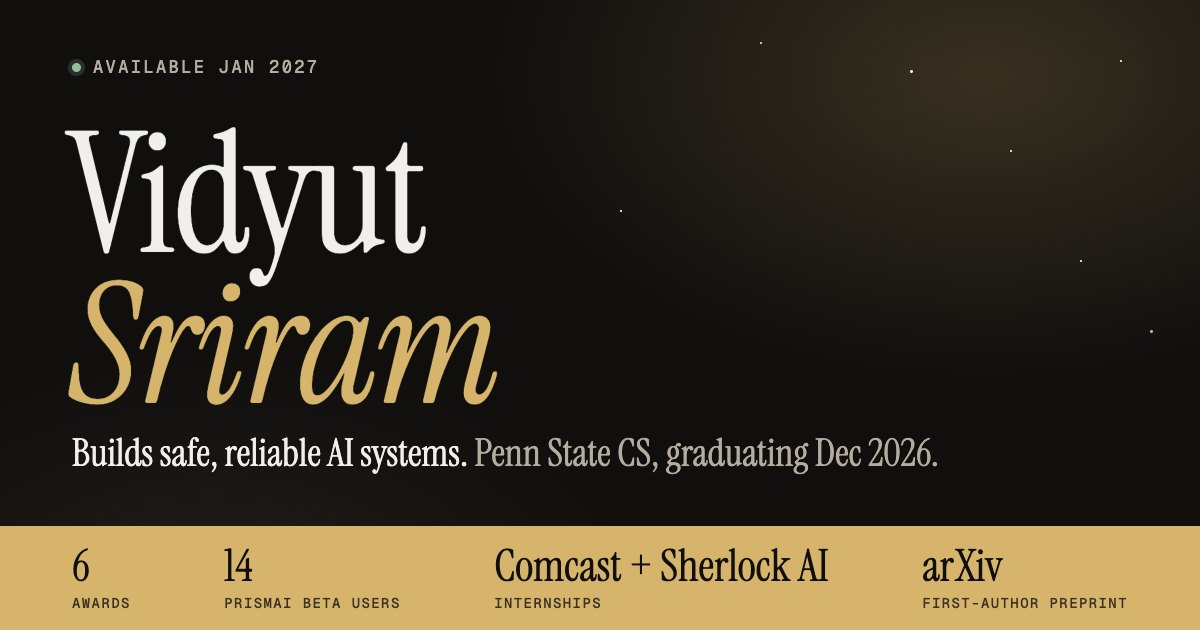
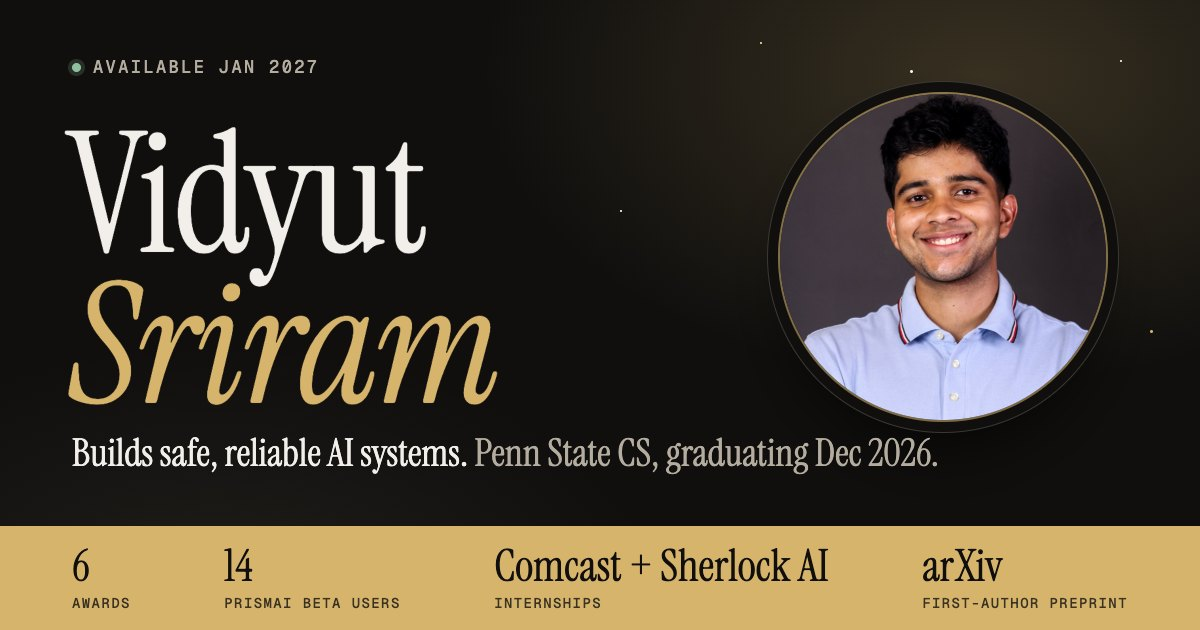
New studio headshot in the hero and on the OG card

Changed region(s): [[0.6475, 0.1206, 0.925, 0.6937], [0.8942, 0.2413, 0.925, 0.3016]]

diff --git a/src/styles/sections.css b/src/styles/sections.css
@@ -204,6 +204,32 @@
   align-items: center;
 }
 
+/* Studio headshot beside the availability line: a face before the claims. */
+.hero-who {
+  display: flex;
+  align-items: center;
+  gap: 18px;
+}
+
+.hero-portrait {
+  width: clamp(80px, 7vw, 104px);
+  height: clamp(80px, 7vw, 104px);
+  border-radius: 50%;
+  object-fit: cover;
+  border: 1px solid var(--acc-line);
+  box-shadow:
+    0 0 0 4px var(--ink),
+    0 0 0 5px var(--hair-2),
+    var(--glass-shadow);
+  flex: none;
+}
+
+.hero-where {
+  margin: 6px 0 0;
+  font-size: 14px;
+  color: var(--text-3);
+}
+
 .status {
   display: inline-flex;
   align-items: center;
@@ -1116,8 +1142,7 @@
 /* Heatmap: brass ramp, never GitHub green. */
 .heat {
   width: 100%;
-  flex: 1 1 118px; /* takes the height the Wins card adds; the graph sits centred in it */
-  min-height: 118px;
+  height: 118px;
   display: block;
 }
 
@@ -1160,6 +1185,7 @@
 }
 
 .pow-foot {
+  margin-top: auto; /* the note and key sit at the foot of the card */
   display: flex;
   justify-content: space-between;
   gap: 12px;
@@ -1707,9 +1733,7 @@
   }
 
   .heat {
-    flex: none;
     height: 96px;
-    min-height: 0;
   }
 
   .xp-row {

diff --git a/src/components/Hero.jsx b/src/components/Hero.jsx
@@ -10,10 +10,24 @@ export default function Hero() {
     <header className="hero" id="top">
       <div className="wrap hero-grid">
         <div className="hero-copy">
-          <span className="status">
-            <i aria-hidden="true" />
-            {hero.status}
-          </span>
+          <div className="hero-who">
+            <img
+              className="hero-portrait"
+              src={hero.portrait.src}
+              srcSet={`${hero.portrait.src} 1x, ${hero.portrait.src2x} 2x`}
+              alt={hero.portrait.alt}
+              width="96"
+              height="96"
+              decoding="async"
+            />
+            <div>
+              <span className="status">
+                <i aria-hidden="true" />
+                {hero.status}
+              </span>
+              <p className="hero-where">{hero.locationNote}</p>
+            </div>
+          </div>
           <h1 className="hero-name">
             {first}
             <br />

diff --git a/src/data/content.js b/src/data/content.js
@@ -44,12 +44,18 @@ export const nav = {
    awards[] arrays below (2 + 3 + 1). */
 export const hero = {
   status: 'Available Jan 2027',
+  /* Studio headshot: 600px and 1200px (2x) squares, shown as a circle. */
+  portrait: {
+    src: '/portrait.jpg',
+    src2x: '/portrait@2x.jpg',
+    alt: 'Vidyut Sriram, smiling, in a light blue polo',
+  },
   headline: 'Vidyut Sriram',
   identity: 'Builds safe, reliable AI systems.',
   identitySub: 'Penn\u00A0State CS, graduating Dec\u00A02026.',
   proofLine:
     'Shipped **PrismAI to 14 beta users**, interned at **Comcast** and **Sherlock AI**, first author on an **arXiv preprint**, and **six awards**, four of them first place.',
-  locationNote: 'State College, PA · open to relocate',
+  locationNote: 'State College, PA',
   /* Buttons. Email is the one primary action. */
   actions: [
     { label: 'Email me', href: 'mailto:vidyut0712@gmail.com', primary: true },
